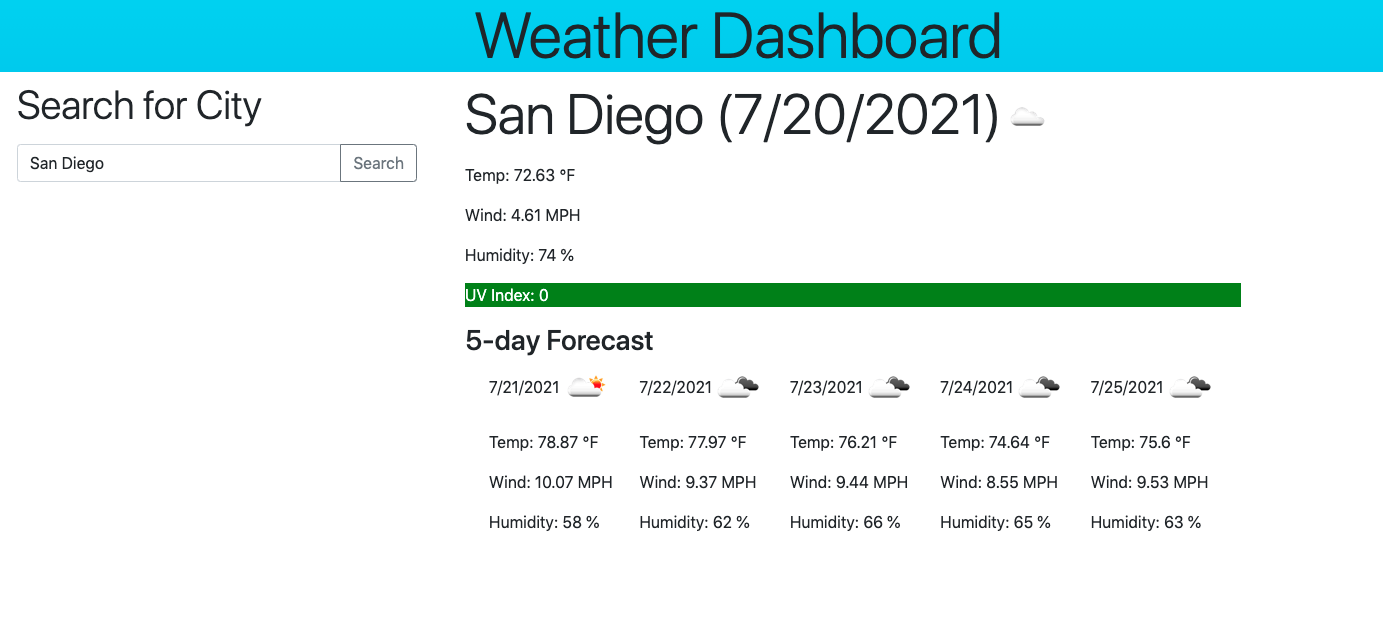
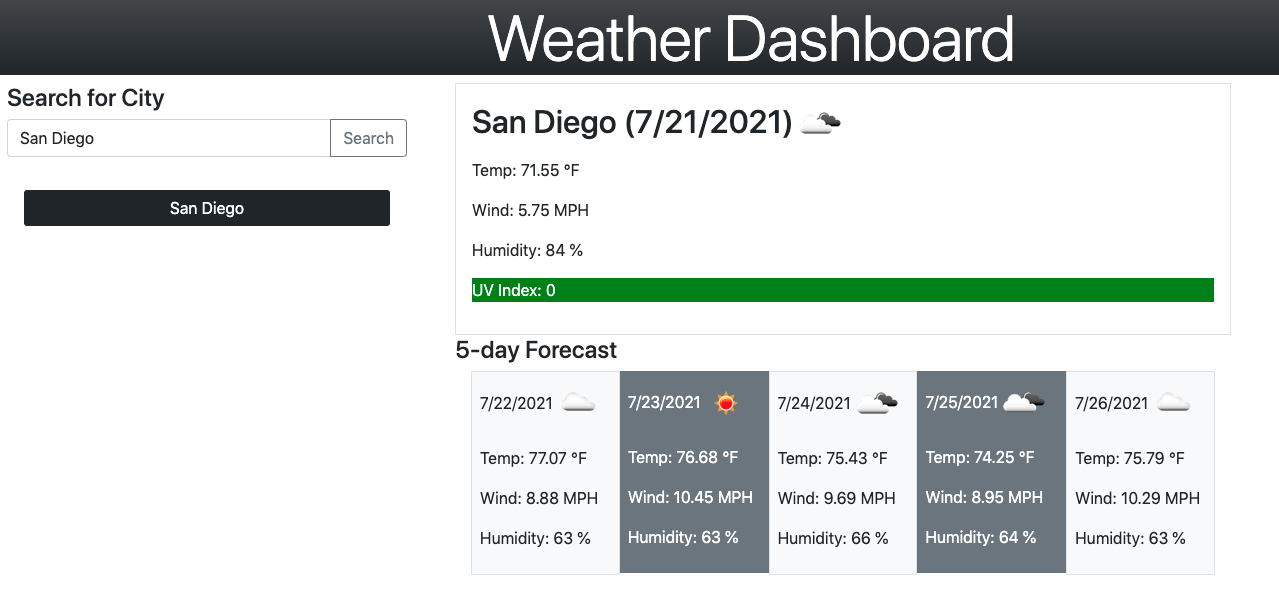
local storage adjustments

diff --git a/script.js b/script.js
@@ -6,12 +6,14 @@ var uvTextel = document.querySelector('.UV');
 var cityname = document.querySelector('#City');
 var inputForm = document.querySelector('.btn');
 var cityBtn = document.querySelector('#City-buttons');
+var rightColumn = document.querySelector('.rightcol')
 var array =[]
 
 
 var SubmitForm =  function (event) {
   event.preventDefault();
    var city = cityname.value.trim();
+   rightColumn.classList = 'container rightcol visible';
  console.log (city)
    if (city) {
     getWeather(city);
@@ -34,34 +36,34 @@ var SubmitForm =  function (event) {
   localStorage.setItem("array", JSON.stringify(array));
 }
 
-function createButton (name) {
- var maincity = name
-  if (array.length === 0 ){
-    array.push(maincity);
-    var newcity = document.createElement('button');
-    newcity.classList = 'btn col-12';
-    newcity.textContent = maincity;
-    newcity.setAttribute ('city', maincity);
-    cityBtn.appendChild (newcity);
-    maincity ="";
-
-  } else if ( array.length > 0){
-    array.push(maincity);
-
+function init (){
+ 
+  rightColumn.classList = 'container rightcol invisible';
+  getArray();
+  
   for (var i = 0; i < array.length; i++) {
-    var currentCity = array[i]
-    var namecheck = Boolean (currentCity !== name)
+     var citystart = array[i]
 
-    console.log (namecheck)
-
-    if (namecheck === false)
+    if (array.includes(citystart)) {
       var newcity = document.createElement('button');
-      newcity.classList = 'btn col-12';
-      newcity.textContent = currentCity;
-      newcity.setAttribute ('city', currentCity);
+      newcity.classList = 'btn col-12 bg-dark text-white border-white';
+      newcity.textContent = citystart;
+      newcity.setAttribute ('city', citystart);
       cityBtn.appendChild (newcity);
+    }
+  }
 
- }}
+}
+
+function createButton(city) {
+  if (!array.includes(city)) {
+    var newcity = document.createElement('button');
+    newcity.classList = 'btn col-12 bg-dark text-white border-white';
+    newcity.textContent = city;
+    newcity.setAttribute ('city', city);
+    cityBtn.appendChild (newcity);
+    array.push(city);
+  }
 }
 
 var getWeather = function (city) {
@@ -82,7 +84,8 @@ var getWeather = function (city) {
         cityTextel.appendChild(img);
         console.log (data);
         
-        createButton(name)
+        createButton(name);
+        storeArray();
 
         var weatherAPi = 'https://api.openweathermap.org/data/2.5/onecall?lat=' + lat +'&lon=' + lon +'&units=imperial&appid=39b190096fa36624e1e4e84727dd3ec2'
 
@@ -143,7 +146,8 @@ var getWeather = function (city) {
   };
 
   var cityButtonClick = function (event) {
-     var city = event.target.getAttribute ('city')
+     var city = event.target.getAttribute ('city');
+     rightColumn.classList = 'container rightcol visible';
 
      if(city) {
       getWeather (city)
@@ -151,6 +155,6 @@ var getWeather = function (city) {
      }
   }
   
-
+  init()  
   inputForm.addEventListener('click', SubmitForm )
   cityBtn.addEventListener('click', cityButtonClick)

diff --git a/index.html b/index.html
@@ -17,13 +17,13 @@
     <title>Weather Dashboard</title>
 </head>
 <body>
-    <div class="container-fluid bg-info bg-gradient">
-       <h1 class ="display-3 text-center"> Weather Dashboard</h1>
+    <div class="container-fluid bg-info bg-dark bg-gradient">
+       <h1 class ="display-3 text-center text-white"> Weather Dashboard</h1>
       </div>
 
       <div class="container row">
         <div class="col-4">
-            <p class="display-6"> Search for City</p>
+            <p class="h4"> Search for City</p>
             <div class="input-group mb-3">
                 <input id = "City" type="text" class="form-control" placeholder="City Name"  aria-describedby="button-addon2">
                 <button class="btn btn-outline-secondary" type="button" id="button-addon2">Search</button>
@@ -32,17 +32,17 @@
               </div>
           </div>
           <div class="col-8">
-            <div class ="container"> 
+            <div class ="container rightcol"> 
                 <div class ="p-3 col-12 border ">     
-                <p class="display-4 City"> City Name</p>
+                <p class="h2 City"> City Name</p>
                 <p class="display-8 Temp"> Temp:</p>
                 <p class="display-8 Wind"> Wind:</p>
                 <p class="display-8 Humidity"> Humidity:</p>
                 <p class="display-8 UV"> UV Index:</p>
                 </div>  
                 <div class="col-12">
-                <p class="h3"> 5-day Forecast</p>
-                <div class="container px-4">
+                <p class="h4"> 5-day Forecast</p>
+                <div class="container-fluid px-4">
                     <div class="row align-items-start row-cols-2 row-cols-lg-5 g-2 g-lg-3">
                       <div class=" p-2 col border bg-light text-dark">
                         <p class="h7 Date1">DATE</p>
